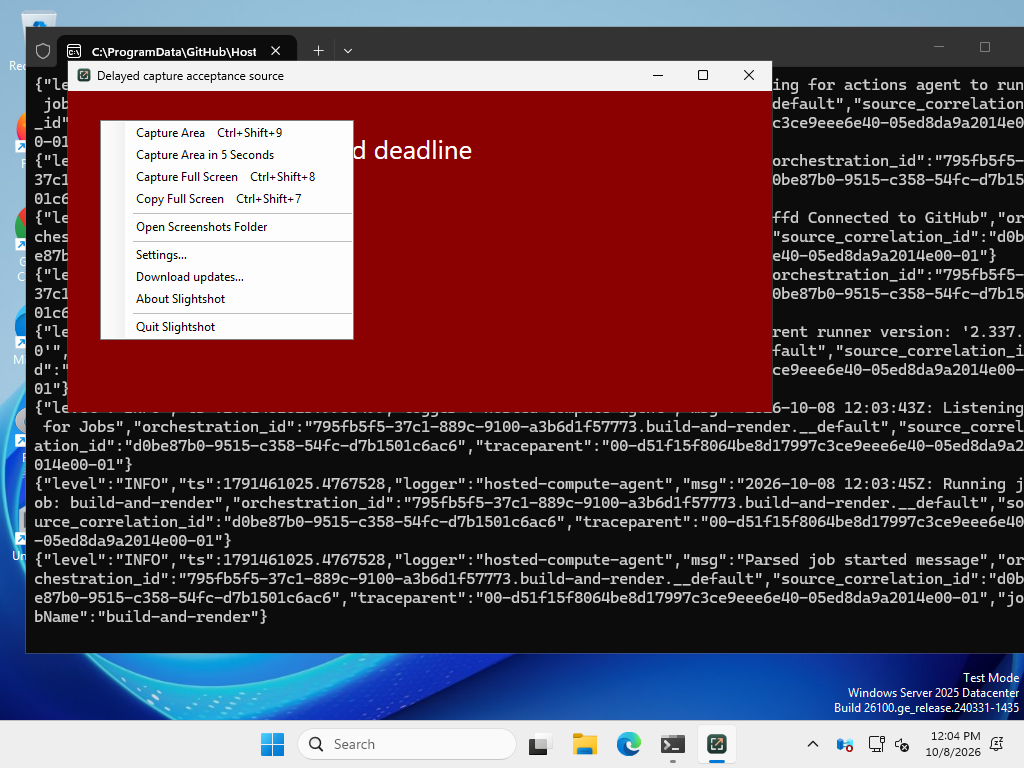
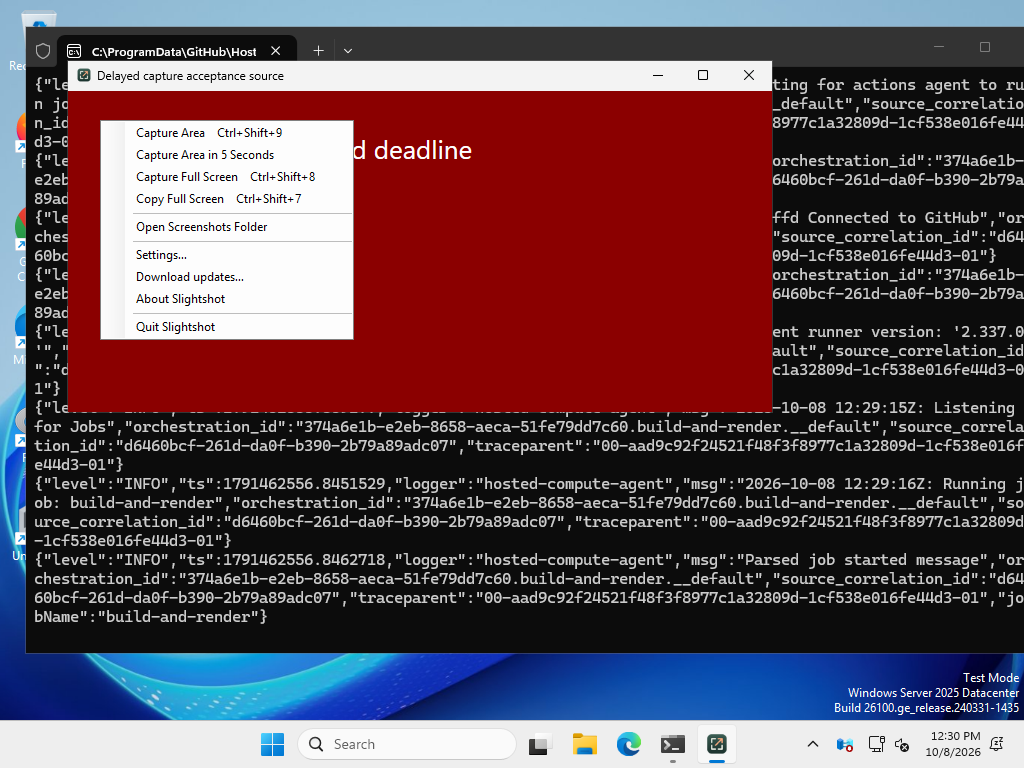
Record native Mac and Windows delayed capture evidence with source revisions

diff --git a/docs/review/delayed-capture/README.md b/docs/review/delayed-capture/README.md
@@ -21,10 +21,12 @@ The countdown is closed and the tray menu is dismissed before desktop
 composition is flushed for capture.
 
 These unchanged desktop screenshots came from successful native
-[Windows CI run 37774229073](https://github.com/jmpijll/slightshot/actions/runs/37774229073),
-feature source `64b1b72340bb58a9374788062afff9070f840c3b` and CI merge checkout
-`09bd51192aba1945272193803672c7c5d6f5a0b0`. The complete
+[Windows CI run 37777192797](https://github.com/jmpijll/slightshot/actions/runs/37777192797),
+feature source `8ea19cf6927974f7bb830f177a224965d3e1a22a` and CI merge checkout
+`43230082b39bd57b406f7b37e2bbdee29901c881`. The complete
 [validation report](delayed-capture-validation.json) is saved alongside them.
+Its elapsed time covers the whole fixture, including waits after cancellation
+and ordinary capture; the editor deadline is separately checked at five seconds.
 The CI desktop and runner terminal are visible behind the real acceptance
 window; these are native application screenshots, with no visual mockups.
 
@@ -37,6 +39,31 @@ The actual area editor retains the green content changed after scheduling:
 ![Native Windows editor after the five-second capture](windows-result.png)
 
 ## Mac desktop acceptance
+
+The production menu and full-selection editor were captured on macOS from
+`d52d5e14384610f4fe1c642c76f07972a01989ce`, after integrating the Redo parent.
+The countdown HUD and Start/Cancel/focus checks came from
+`8ea19cf6927974f7bb830f177a224965d3e1a22a`. The
+[Mac validation record](mac-validation.json) identifies the observed checks;
+[the HUD source report](mac-hud-source.json) confirms a ScreenCaptureKit
+screenshot of the live production panel window.
+
+The native application was driven through CUA in the bounded review fixture.
+Its frozen screen source is explicitly synthetic and is created when the
+countdown callback fires. The menu, countdown panel, real selection overlay and
+editing toolbars are actual AppKit UI, with no generated visual mockups. This
+Mac fixture does not claim a live screenshot of another application's transient
+content; Windows CI above checks that live pixels changed after scheduling.
+
+| Production menu | Actual countdown window |
+| --- | --- |
+| ![Native Mac menu](mac-menu.jpg) | ![Live native Mac countdown](mac-hud.png) |
+
+After the deadline, Command-A selected the synthetic source in the actual area
+editor. The editing tools and output actions are visible:
+
+![Native Mac editor after the countdown](mac-result.jpg)
+
 
 The countdown uses a nonactivating AppKit panel. It closes before capture;
 ScreenCaptureKit also excludes Slightshot's own windows. The timer uses a
@@ -51,6 +78,12 @@ labelled synthetic source created when capture starts. This demonstrates native
 menu/countdown/editor behavior without capturing private desktop content; it
 does not claim a live ScreenCaptureKit snapshot. Windows CI above separately
 checks actual live pixels changed after scheduling.
+
+Add `--delayed-review-evidence /absolute/output/directory` to save the actual
+countdown HUD after starting through the review UI. The helper captures only
+the app's own panel window with ScreenCaptureKit; if unavailable, it renders the
+actual native AppKit content view. `mac-hud-source.json` identifies the method
+used, and `mac-hud.png` contains the result. It never takes a full-desktop image.
 
 Run the freshly built app bundle, then:
 
